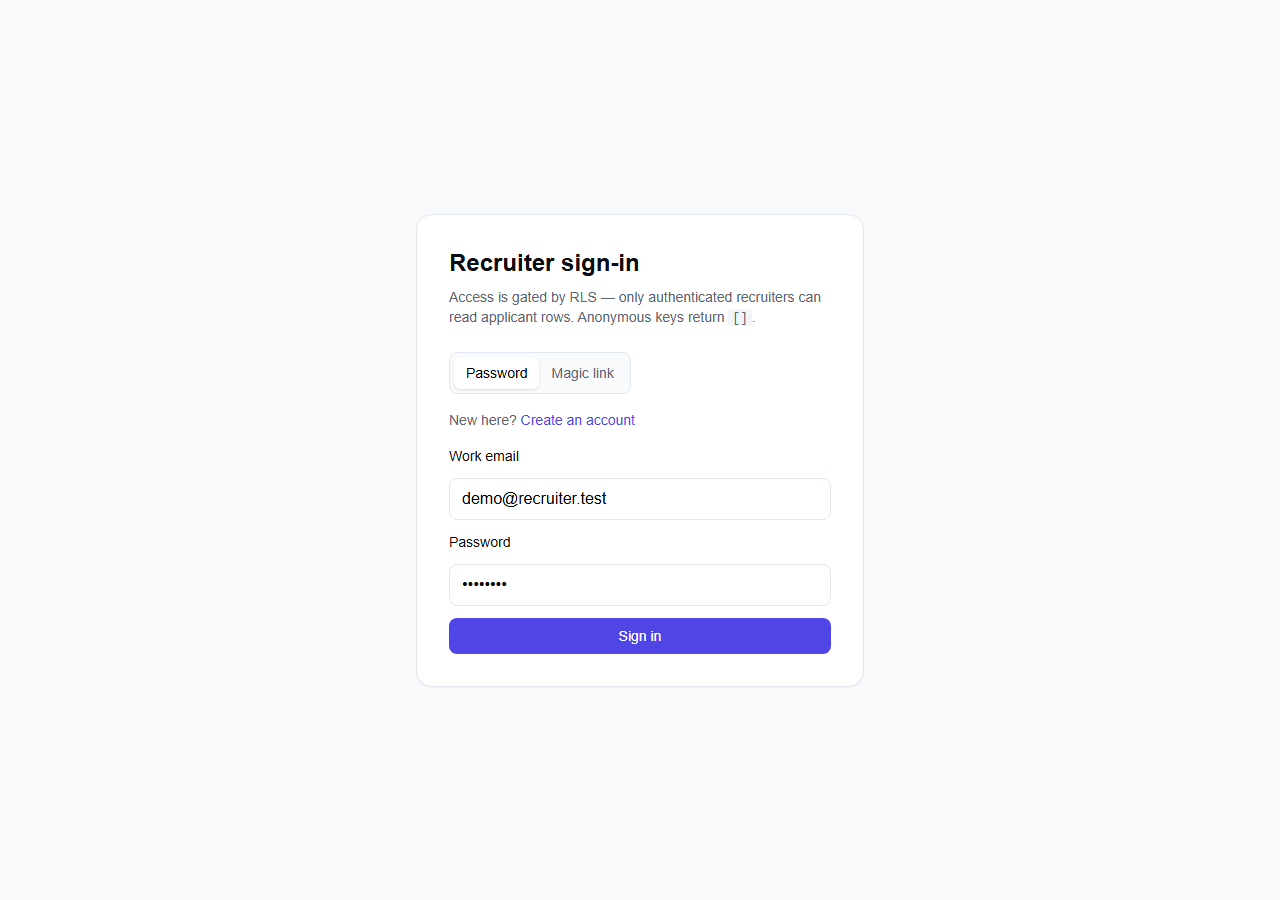
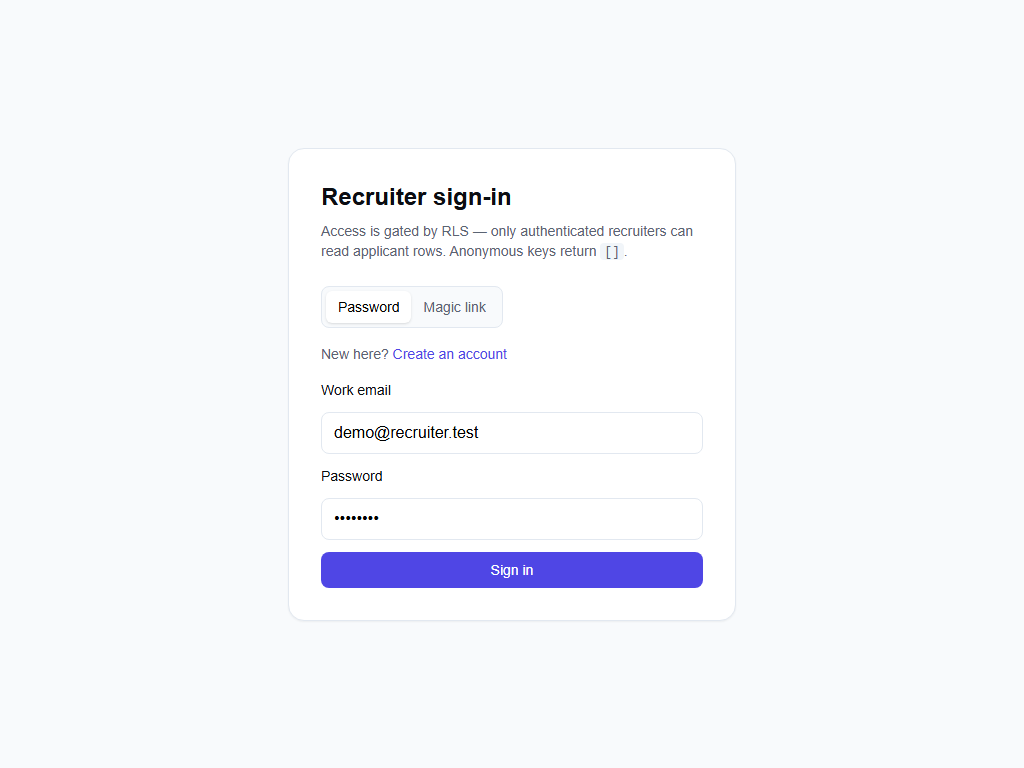
remove self-serve sign-up toggle from /login
Auth surface tightening: only password + magic-link tabs remain on the
public login page. Self-serve sign-up is removed; accounts must be
provisioned by an admin in Supabase Auth -> Users. This prevents
anonymous visitors from minting recruiter credentials and keeps the
public attack surface small.

- app/login/page.tsx: drop AuthKind type, kind state, signUp branch, and
  the 'New here? Create an account' toggle. Copy now reads 'Recruiter
  sign-in' with Password / Magic-link tabs and a small note that
  accounts are admin-provisioned.
- README.md: update Â§1 copy + production-status table to reflect
  admin-provisioned access.
- assets/screenshots/01-login.{html,png} + render.ps1: refresh login
  mockup to match the new UI (sign-up panel gone, password + magic-link
  tabs + admin-provisioned note).

Build, lint, and tsc all clean (login route 1.99 kB / 157 kB First Load).
Live Vercel screenshot will be recaptured and pushed in the next commit
once the redeploy lands.

Changed region(s): [[0.3125, 0.5, 0.6875, 0.7812], [0.3125, 0.25, 0.6875, 0.4688]]

diff --git a/app/login/page.tsx b/app/login/page.tsx
@@ -1,19 +1,26 @@
 "use client";
 
+// app/login/page.tsx
+//
+// Recruiter sign-in: password OR magic link. No self-serve sign-up —
+// accounts are provisioned by the admin (Supabase Auth → Users). That
+// keeps the auth surface tight: a public visitor cannot mint a row.
+//
+// `dynamic = "force-dynamic"` opts this route out of static prerender
+// at build time so the lazy Supabase client never runs without env
+// vars present.
+
 import { useState, type FormEvent } from "react";
 import { useRouter } from "next/navigation";
 import { createBrowserClient } from "@supabase/ssr";
 
-// Force dynamic: login is interactive and varies per visitor.
 export const dynamic = "force-dynamic";
 
 type Mode = "password" | "magic";
-type AuthKind = "signin" | "signup";
 
 export default function LoginPage() {
   const router = useRouter();
   const [mode, setMode] = useState<Mode>("password");
-  const [kind, setKind] = useState<AuthKind>("signin");
   const [email, setEmail] = useState("");
   const [password, setPassword] = useState("");
   const [error, setError] = useState<string | null>(null);
@@ -55,36 +62,14 @@ export default function LoginPage() {
         if (error) setError(error.message);
         else setInfo(`Magic link sent to ${email}. Check your inbox.`);
       } else {
-        if (kind === "signup") {
-          const siteUrl =
-            process.env.NEXT_PUBLIC_SITE_URL ?? window.location.origin;
-          const { error } = await supabase.auth.signUp({
-            email,
-            password,
-            options: { emailRedirectTo: `${siteUrl}${nextPath()}` },
-          });
-          if (error) {
-            setError(error.message);
-          } else {
-            setInfo(
-              "Account created. If your project requires email confirmation, check your inbox — otherwise you're signed in."
-            );
-            // Most demo projects have confirm-email disabled; in that
-            // case Supabase returns a session immediately and we can
-            // just route the user straight to /search.
-            const { data } = await supabase.auth.getSession();
-            if (data.session) router.replace(nextPath());
-          }
+        const { error } = await supabase.auth.signInWithPassword({
+          email,
+          password,
+        });
+        if (error) {
+          setError(error.message);
         } else {
-          const { error } = await supabase.auth.signInWithPassword({
-            email,
-            password,
-          });
-          if (error) {
-            setError(error.message);
-          } else {
-            router.replace(nextPath());
-          }
+          router.replace(nextPath());
         }
       }
     } catch (err) {
@@ -106,7 +91,7 @@ export default function LoginPage() {
       <div className="rounded-2xl border border-slate-200 bg-white p-8 shadow-sm">
         <h1 className="text-2xl font-semibold text-ink">Recruiter sign-in</h1>
         <p className="mt-2 text-sm text-muted">
-          Access is gated by RLS — only authenticated recruiters can read
+          Access is gated by RLS &mdash; only authenticated recruiters can read
           applicant rows. Anonymous keys return{" "}
           <code className="rounded bg-slate-100 px-1">[]</code>.
         </p>
@@ -115,7 +100,11 @@ export default function LoginPage() {
         <div className="mt-6 inline-flex rounded-lg border border-slate-200 bg-slate-50 p-1 text-sm">
           <button
             type="button"
-            onClick={() => { setMode("password"); setError(null); setInfo(null); }}
+            onClick={() => {
+              setMode("password");
+              setError(null);
+              setInfo(null);
+            }}
             className={
               "rounded-md px-3 py-1.5 transition " +
               (mode === "password"
@@ -127,7 +116,11 @@ export default function LoginPage() {
           </button>
           <button
             type="button"
-            onClick={() => { setMode("magic"); setError(null); setInfo(null); }}
+            onClick={() => {
+              setMode("magic");
+              setError(null);
+              setInfo(null);
+            }}
             className={
               "rounded-md px-3 py-1.5 transition " +
               (mode === "magic"
@@ -139,36 +132,7 @@ export default function LoginPage() {
           </button>
         </div>
 
-        {/* Sign-in / sign-up toggle (password mode only) */}
-        {mode === "password" && (
-          <div className="mt-4 text-sm text-muted">
-            {kind === "signin" ? (
-              <>
-                New here?{" "}
-                <button
-                  type="button"
-                  onClick={() => { setKind("signup"); setError(null); setInfo(null); }}
-                  className="font-medium text-accent hover:underline"
-                >
-                  Create an account
-                </button>
-              </>
-            ) : (
-              <>
-                Already have an account?{" "}
-                <button
-                  type="button"
-                  onClick={() => { setKind("signin"); setError(null); setInfo(null); }}
-                  className="font-medium text-accent hover:underline"
-                >
-                  Sign in instead
-                </button>
-              </>
-            )}
-          </div>
-        )}
-
-        <form onSubmit={onSubmit} className="mt-4 space-y-3">
+        <form onSubmit={onSubmit} className="mt-6 space-y-3">
           <label className="block text-sm font-medium text-ink" htmlFor="email">
             Work email
           </label>
@@ -224,15 +188,13 @@ export default function LoginPage() {
               ? "Working…"
               : mode === "magic"
               ? "Send magic link"
-              : kind === "signup"
-              ? "Create account"
               : "Sign in"}
           </button>
         </form>
 
         <p className="mt-6 text-center text-xs text-muted">
-          By signing in you confirm you&rsquo;re authorised to view applicant
-          data under your organisation&rsquo;s policy.
+          Accounts are provisioned by your administrator. If you need access,
+          ask the team to create one in Supabase Auth → Users.
         </p>
       </div>
     </main>

diff --git a/docs/screenshots/01-login.html b/docs/screenshots/01-login.html
@@ -1,0 +1,46 @@
+<!doctype html>
+<html lang="en">
+  <head>
+    <meta charset="utf-8" />
+    <title>Recruiter sign-in — Applications Search</title>
+    <script src="https://cdn.tailwindcss.com"></script>
+    <style>
+      :root { --accent: #2563eb; }
+      body { background: #f8fafc; }
+      .bg-accent { background: var(--accent); }
+      .text-ink { color: #0f172a; }
+      .text-muted { color: #64748b; }
+    </style>
+  </head>
+  <body class="font-sans antialiased">
+    <main class="mx-auto flex min-h-screen max-w-md flex-col justify-center px-6">
+      <div class="rounded-2xl border border-slate-200 bg-white p-8 shadow-sm">
+        <h1 class="text-2xl font-semibold text-ink">Recruiter sign-in</h1>
+        <p class="mt-2 text-sm text-muted">
+          Access is gated by RLS &mdash; only authenticated recruiters can read
+          applicant rows. Anonymous keys return <code class="rounded bg-slate-100 px-1">[]</code>.
+        </p>
+
+        <div class="mt-6 inline-flex rounded-lg border border-slate-200 bg-slate-50 p-1 text-sm">
+          <button type="button" class="rounded-md bg-white px-3 py-1.5 text-ink shadow">Password</button>
+          <button type="button" class="rounded-md px-3 py-1.5 text-muted hover:text-ink">Magic link</button>
+        </div>
+
+        <form class="mt-6 space-y-3">
+          <label class="block text-sm font-medium text-ink" for="email">Work email</label>
+          <input id="email" type="email" placeholder="you@company.com"
+                 class="w-full rounded-lg border border-slate-200 px-3 py-2 text-base" />
+          <label class="block text-sm font-medium text-ink" for="password">Password</label>
+          <input id="password" type="password" placeholder="at least 6 characters"
+                 class="w-full rounded-lg border border-slate-200 px-3 py-2 text-base" />
+          <button type="button" class="w-full rounded-lg bg-accent px-4 py-2 text-sm font-medium text-white shadow-sm">Sign in</button>
+        </form>
+
+        <p class="mt-6 text-center text-xs text-muted">
+          Accounts are provisioned by your administrator. If you need access,
+          ask the team to create one in Supabase Auth → Users.
+        </p>
+      </div>
+    </main>
+  </body>
+</html>

diff --git a/README.md b/README.md
@@ -36,7 +36,7 @@ debounced input, and every UI state a hiring tool should have.
 | 404 page (`app/not-found.tsx`) | ✅ | live chunks |
 | RPC input caps (q ≤ 256, lim ≤ 100, off ≤ 1000) | ✅ | migrations hardened |
 | `sanitizeHeadline` XSS wall | ✅ rewrite | control-char strip + tag allowlist |
-| Magic link + password sign-in + sign-up | ✅ | live UI tabs |
+| Password + magic-link sign-in (sign-up gated — admin-provisioned only) | ✅ | live UI tabs |
 | ESLint config (`next/core-web-vitals`) | ✅ | `.eslintrc.json` |
 | OG / Twitter / theme-color / robots meta | ✅ | live HTML |
 | Seed rows | ✅ 66 varied rows | `select count(*)` = 66 |
@@ -68,7 +68,9 @@ Approach:
    in-memory edge rate limit (30 req / 10s / IP).
 5. **UX**: debounce + AbortController, URL sync, Cmd/Ctrl+K, focus on
    mount, stale-while-revalidate skeletons, fuzzy fallback, magic-link
-   *and* password sign-in (with sign-up).
+   *and* password sign-in. Self-serve sign-up is intentionally disabled —
+   accounts are provisioned by an admin in Supabase Auth → Users, so the
+   public surface cannot mint recruiter credentials.
 
 ---
 
@@ -188,7 +190,7 @@ gates the live screenshot.
 | State | File | Source |
 |---|---|---|
 | **Live site** (no auth) | [`assets/screenshots/00-live-login.png`](assets/screenshots/00-live-login.png) | Edge headless capture of `https://recruiter-application-search-system.vercel.app/login` |
-| Login (password + magic link tabs) | [`assets/screenshots/01-login.png`](assets/screenshots/01-login.png) | State mockup |
+| Login (password / magic-link tabs, admin-provisioned) | [`assets/screenshots/01-login.png`](assets/screenshots/01-login.png) | State mockup |
 | Search results with `<mark>` highlights | [`assets/screenshots/02-search-results.png`](assets/screenshots/02-search-results.png) | State mockup (matches actual UI; live capture requires a session) |
 | Empty state with fuzzy CTA | [`assets/screenshots/03-empty-state.png`](assets/screenshots/03-empty-state.png) | State mockup |
 | Loading skeleton | [`assets/screenshots/04-loading-skeleton.png`](assets/screenshots/04-loading-skeleton.png) | State mockup |
